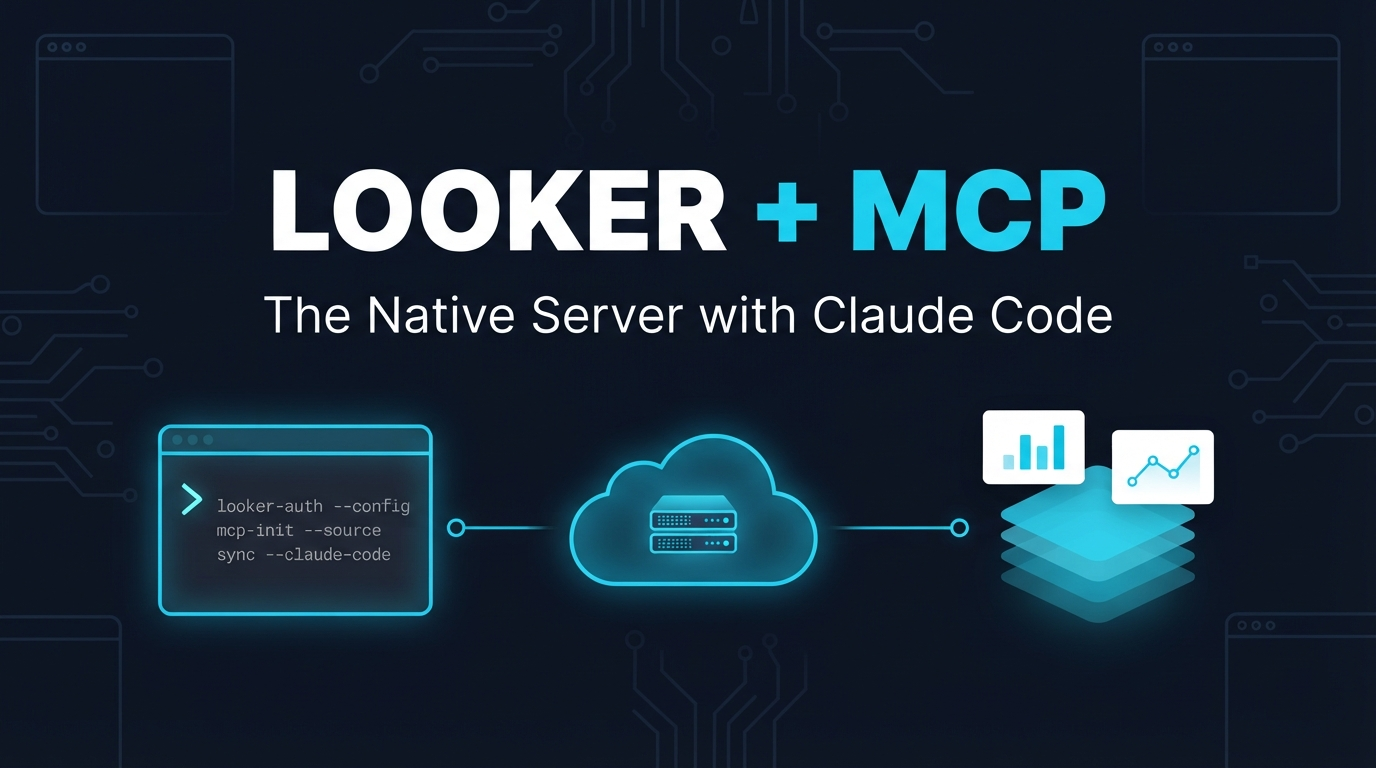
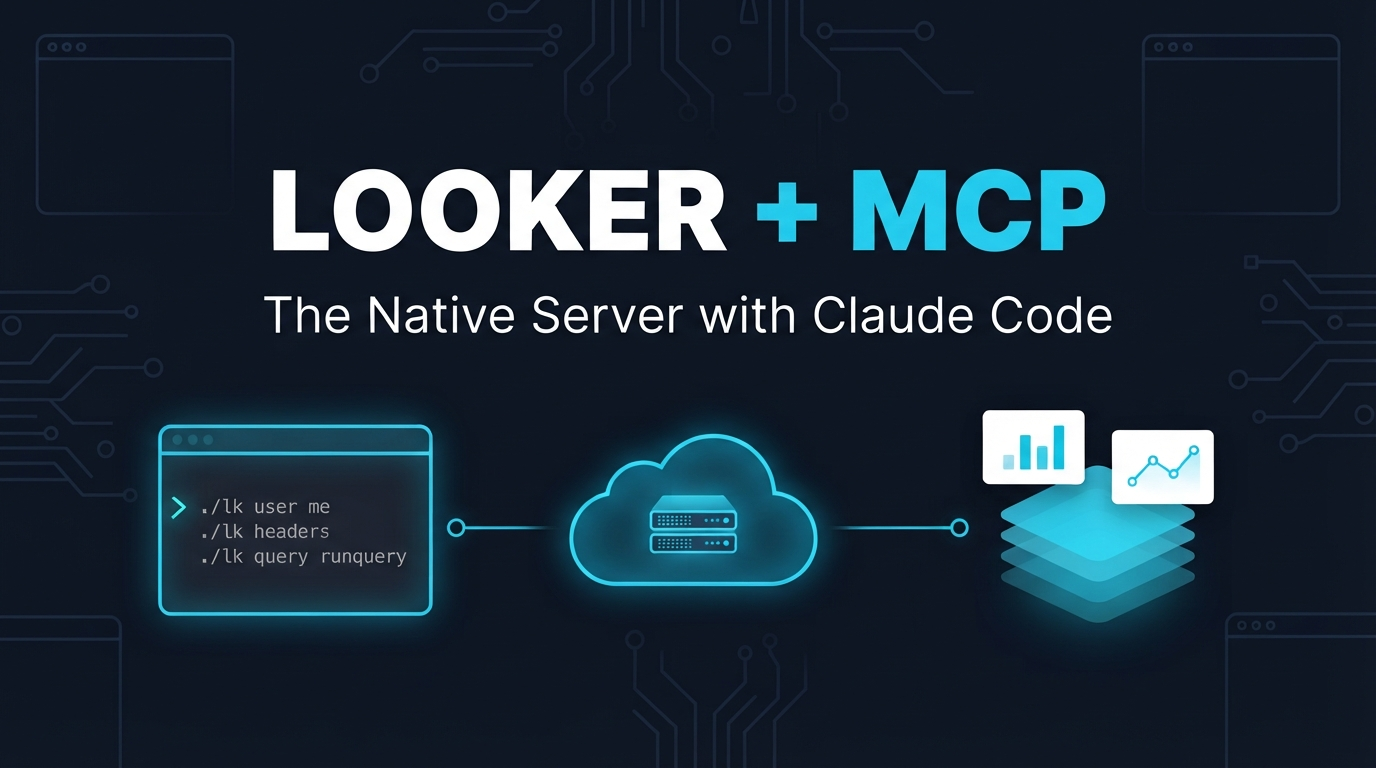
Cover art: real ./lk commands in the terminal
The generated header invented commands (looker-auth --config, mcp-init
--source, sync --claude-code) that exist nowhere in this project. One
stateful NB2Lite edit off the original interaction replaces them with
./lk user me, ./lk headers and ./lk query runquery, leaving the rest of
the composition untouched. First pass kept as cover-native-mcp-v1.jpg.

Changed region(s): [[0.125, 0.625, 0.2812, 0.75]]

diff --git a/docs/looker-native-mcp-with-claude-code.md b/docs/looker-native-mcp-with-claude-code.md
@@ -10,7 +10,9 @@ cover_image: https://raw.githubusercontent.com/xbill9/looker-cli-claude/main/doc
 
 <!--
 Cover art: docs/images/cover-native-mcp.jpg — generated with NB2Lite
-(gemini-3.1-flash-lite-image, Interactions API, 16:9, thinking_level=high).
+(gemini-3.1-flash-lite-image, Interactions API, 16:9, thinking_level=high),
+then one stateful edit to replace invented commands in the terminal with real
+./lk ones. First pass kept at docs/images/cover-native-mcp-v1.jpg.
 The raw.githubusercontent URL above resolves from the public repo, so it works
 as both the dev.to cover and the inline image in the Medium variant.
 -->
